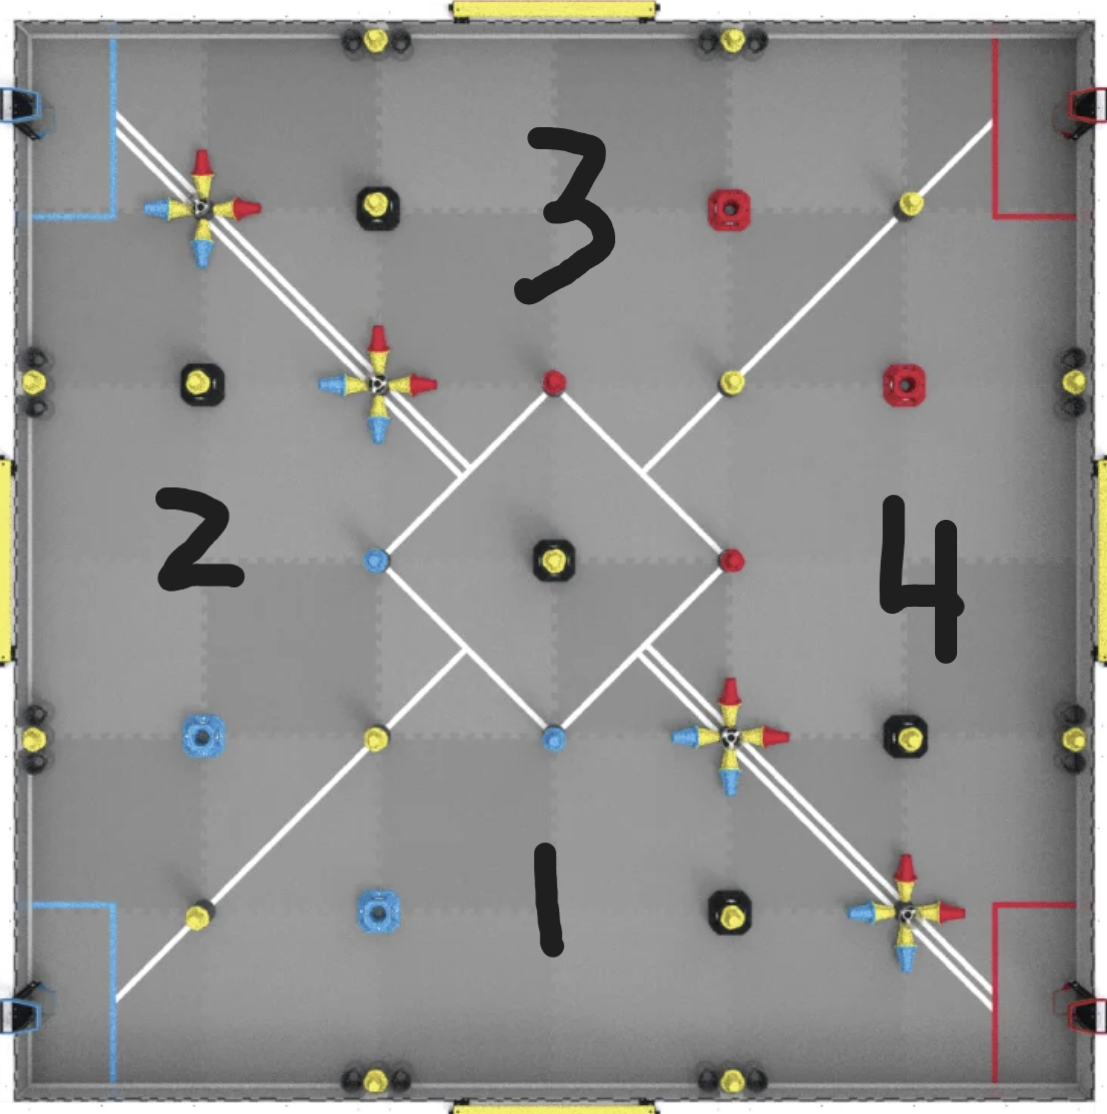
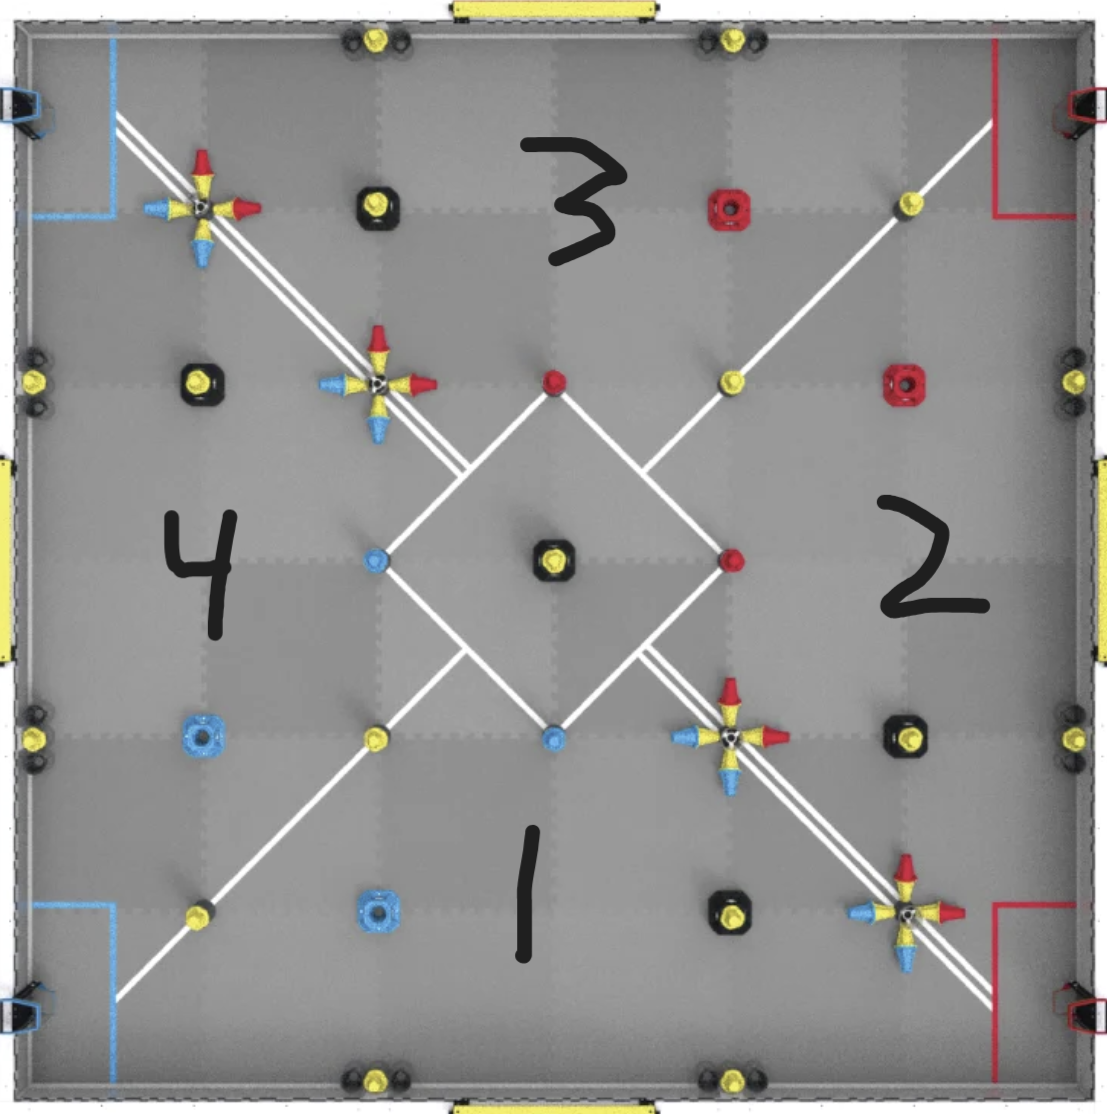
Correct field quadrant orientation

diff --git a/src/components/QuadrantFieldResetCheck.jsx b/src/components/QuadrantFieldResetCheck.jsx
@@ -1,7 +1,7 @@
 import React, { useEffect, useMemo, useState } from "react";
 import { ChevronLeft, CheckCircle2, Circle, RotateCcw, ShieldCheck, MapPin } from "lucide-react";
 
-const STORAGE_KEY = "refos.experimental.quadrant-reset.v3";
+const STORAGE_KEY = "refos.experimental.quadrant-reset.v4";
 const CROP_BASE = "/field-setup/quadrant-crops";
 
 // Each entry is an expected field position. Every checklist row includes a
@@ -23,7 +23,7 @@ const QUADRANTS = [
   },
   {
     id: 2,
-    name: "Left",
+    name: "Right",
     items: [
       { label: "Upper-left Pin cluster", image: "q2-upper-left-pin-cluster.jpg" },
       { label: "Mid-left black Cup / Pin assembly", image: "q2-mid-left-black-cup-pin.jpg" },
@@ -46,7 +46,7 @@ const QUADRANTS = [
   },
   {
     id: 4,
-    name: "Right",
+    name: "Left",
     items: [
       { label: "Upper-right red Goal", image: "q4-upper-right-red-goal.jpg" },
       { label: "Center-right red Goal", image: "q4-center-right-red-goal.jpg" },
@@ -153,7 +153,10 @@ export default function QuadrantFieldResetCheck({ onClose }) {
             <div className="text-lg font-bold">Quadrant {def.id} • {def.name}</div>
             <div className="text-xs text-slate-400">Compare each screenshot to the field, then tap the position when it matches.</div>
           </div>
-          <div className="text-xs font-bold text-slate-300 whitespace-nowrap">{checkedCount}/{def.items.length}</div>
+          <div className="flex items-center gap-2">
+            <img src={`/field-setup/quadrant-overviews/q${def.id}.jpg`} alt={`Quadrant ${def.id} reference`} className="w-20 h-16 object-cover border border-slate-700 bg-black" />
+            <div className="text-xs font-bold text-slate-300 whitespace-nowrap">{checkedCount}/{def.items.length}</div>
+          </div>
         </div>
 
         <div className="border border-slate-800 divide-y divide-slate-800 bg-slate-900/60">

diff --git a/public/sw.js b/public/sw.js
@@ -1,4 +1,4 @@
-const CACHE = "refos-v20-1.2.0-highlander-quadrant-reference-screenshots";
+const CACHE = "refos-v20-1.2.0-highlander-quadrant-correction";
 
 const APP_SHELL = [
   "/models/refos_tiny_detector.onnx",
